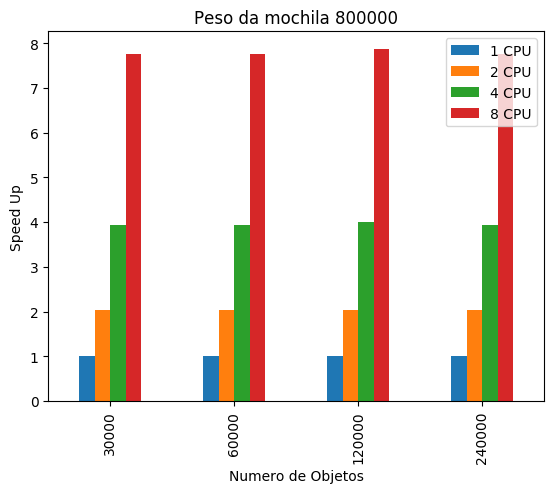
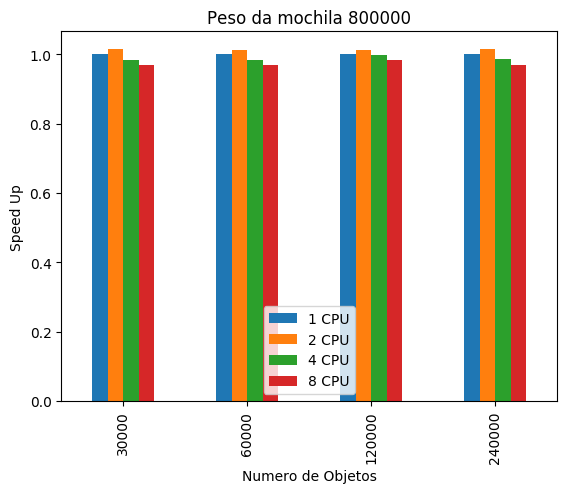
err fixed error

diff --git a/getMetrics.py b/getMetrics.py
@@ -59,7 +59,7 @@ def main():
 		for i  in range(len(threads)):
 			if threads[i] == 1:
 				seq = media[i]
-			speedUp[i] = seq/media[i]*threads[i]
+			speedUp[i] = seq/media[i]
 			efficiency[i] = speedUp[i]/threads[i]
 			print("i: {}\tseq: {}\tthreads[i]: {}\tmedia[i]: {}\t spUp[i]: {}\teff[i]: {}".format(i,seq,threads[i],media[i],speedUp[i],efficiency[i]))
 		
